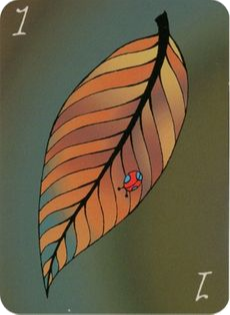
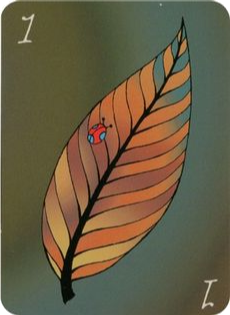
update240425

diff --git a/style.css b/style.css
@@ -1,99 +1,106 @@
-/* CSS Document */
-body {
-    background-image: url('table.png'); /* Set table.png as the background */
-    background-size: cover;
-    background-repeat: repeat;
-    background-position: center;
+/* General styles for html and body */
+html, body {
     margin: 0;
     padding: 0;
+    width: 100%;
+    height: 100%;
+    overflow: hidden; /* Prevent scrollbars during rotation */
     display: flex;
     justify-content: center;
     align-items: center;
-    height: 100vh; /* Full viewport height */
+    background-image: url('table.png'); /* Set table.png as the background */
+    background-size: cover;
+    background-repeat: no-repeat; /* Prevent tiling */
+    background-position: center;
 }
 
-.container {
-    display: grid;
-    grid-template-columns: auto auto auto auto;
-    padding: 10px;
+/* Page container styles */
+#page-container {
+    display: flex;
+    flex-direction: column; /* Stack content vertically */
+    justify-content: center;
+    align-items: center;
+    width: 100%; /* Full width */
+    height: 100%; /* Full height */
+    position: relative; /* Allow transform to work properly */
+    transform-origin: center; /* Set the rotation origin to the center */
+    transition: transform 0.5s ease; /* Smooth rotation */
+    will-change: transform; /* Optimize for transform changes */
+    overflow: hidden; /* Prevent content overflow during rotation */
 }
 
-.container > div {
-    border: 1px solid black;
-    padding: 10px;
-    font-size: 30px;
-    text-align: center;
-}
-
+/* Game board layout */
 .game-board {
     display: grid;
     grid-template-rows: auto auto auto; /* Three rows: Player 1, stacks, Player 2 */
-    grid-gap: 20px; /* Space between rows */
+    grid-gap: 10px; /* Reduce spacing between rows */
+    justify-items: center; /* Center items horizontally */
+    align-items: center; /* Center items vertically */
+    width: 90%; /* Slightly smaller width to fit on the page */
+    height: 90%; /* Slightly smaller height to fit on the page */
     text-align: center;
 }
 
+/* Player layout */
 .player {
     display: grid;
     grid-template-columns: repeat(2, 1fr); /* 2x2 grid for cards */
-    grid-gap: 10px; /* Space between cards */
+    grid-gap: 8px; /* Reduce spacing between cards */
     justify-content: center;
+    align-items: center;
 }
-
+.player-1 img {
+    transform: rotate(180deg); /* No rotation for player 1 */
+}
+/* Stacks layout */
 .stacks {
     display: flex;
     justify-content: center;
-    gap: 50px; /* Space between draw and discard stacks */
+    align-items: center;
+    gap: 15px; /* Space between draw and discard stacks */
 }
 
+/* Card and stack images */
 .card-slot img, .stacks img {
-    width: 100px; /* Set card width */
+    width: 80px; /* Adjust card size to fit on the page */
     height: auto; /* Maintain aspect ratio */
     border: 1px solid black;
     border-radius: 5px;
-    box-shadow: 0 4px 6px rgba(0, 0, 0, 0.2);
+    box-shadow: 0 2px 5px rgba(0, 0, 0, 0.2);
 }
 
-/* Add responsive design for smaller screens */
+/* Responsive design for smaller screens */
 @media (max-width: 768px) {
     .game-board {
-        grid-template-rows: auto auto auto; /* Keep the three rows */
-        grid-gap: 10px; /* Reduce spacing between rows */
+        grid-gap: 8px; /* Reduce spacing between rows */
     }
 
     .player {
-        display: grid; /* Ensure the player container uses grid layout */
-        grid-template-columns: repeat(2, 1fr); /* Maintain a 2x2 grid for cards */
-        grid-gap: 10px; /* Adjust spacing between cards */
-        justify-content: center;
+        grid-template-columns: repeat(2, 1fr); /* Maintain 2x2 grid */
+        grid-gap: 6px; /* Reduce spacing between cards */
     }
 
     .stacks {
-        display: flex; /* Ensure stacks remain side by side */
-        flex-direction: row; /* Keep draw and discard stacks side by side */
-        gap: 20px; /* Reduce spacing between stacks */
+        gap: 10px; /* Reduce spacing between stacks */
     }
 
     .card-slot img, .stacks img {
-        width: 80px; /* Reduce card size for smaller screens */
+        width: 70px; /* Smaller card size for smaller screens */
     }
 }
 
 @media (max-width: 480px) {
     .game-board {
-        grid-gap: 5px; /* Further reduce spacing for very small screens */
+        grid-gap: 5px; /* Further reduce spacing between rows */
     }
 
     .player {
-        display: grid; /* Ensure the player container uses grid layout */
-        grid-template-columns: repeat(2, 1fr); /* Maintain a 2x2 grid for cards */
+        grid-template-columns: repeat(2, 1fr); /* Maintain 2x2 grid */
         grid-gap: 5px; /* Further reduce spacing between cards */
-        justify-content: center;
     }
 
     .stacks {
-        display: flex; /* Ensure stacks remain side by side */
-        flex-direction: row; /* Keep draw and discard stacks side by side */
-        gap: 10px; /* Further reduce spacing between stacks */
+        gap: 8px; /* Further reduce spacing between stacks */
     }
 
     .card-slot img, .stacks img {

diff --git a/script.js b/script.js
@@ -138,6 +138,36 @@ async function addFirstCardToDiscardStack() {
     }
 }
 
+// Function to set up player cards
+async function setUpPlayerCards() {
+    try {
+        // Select all player card elements
+        const playerCards = document.querySelectorAll('.player .card-slot img');
+
+        // Loop through each player card
+        for (const card of playerCards) {
+            // Get a card from the card stack
+            const newCard = await takeFromCardStack();
+
+            // If no card is available, stop the loop
+            if (newCard === null) {
+                console.log('No more cards available in the card stack.');
+                break;
+            }
+
+            // Update the data-card attribute with the new card value
+            card.setAttribute('data-card', newCard);
+
+            // Update the card image to show the new card
+            card.src = `karten/${newCard}.png`;
+
+            console.log(`Assigned card ${newCard} to a player card slot.`);
+        }
+    } catch (error) {
+        console.error('Error setting up player cards:', error);
+    }
+}
+
 // Function to clear the discard stack in Firestore
 async function clearDiscardStack() {
     const discardStackRef = doc(db, 'gameData', 'discardStack'); // Reference to the discard stack document
@@ -213,11 +243,46 @@ function setupCardEventListeners() {
     });
 }
 
+// Function to rotate the page for the other player
+function rotatePageForPlayer(playerRole) {
+    const pageContainer = document.getElementById("page-container");
+
+    if (!pageContainer) {
+        console.error("Error: #page-container element not found.");
+        return;
+    }
+
+    // Ensure transition is set (can be done here or in CSS)
+    // If transition is not in CSS #page-container rule, uncomment the next line:
+    // pageContainer.style.transition = 'transform 0.5s ease'; 
+
+    if (playerRole === 'player-2') {
+        // Apply rotation directly via inline style
+        pageContainer.style.transform = 'rotate(180deg)'; 
+        console.log('Applied inline transform: rotate(180deg)');
+        // You can optionally still add the class for other potential styling or state tracking
+        pageContainer.classList.add('rotated'); 
+    } else if (playerRole === 'player-1') {
+        // Remove rotation directly via inline style
+        pageContainer.style.transform = 'rotate(0deg)'; // Or 'none'
+        console.log('Applied inline transform: rotate(0deg)');
+        // You can optionally still remove the class
+        pageContainer.classList.remove('rotated'); 
+    } else {
+        console.warn("Invalid player role provided:", playerRole);
+    }
+}
+
 // Call the setup function on page load
 document.addEventListener('DOMContentLoaded', async () => {
+    const pageContainer = document.getElementById("page-container");
+    if (pageContainer) {
+        // Ensure initial transform is none/0deg if needed
+        pageContainer.style.transform = 'rotate(0deg)'; 
+        pageContainer.classList.remove('rotated'); // Also remove class just in case
+    }
     setupCardEventListeners();
     await updateDiscardStackDisplay(); // Update discard stack display on page load
-    
 });
 
 // Attach functions to the global window object
@@ -228,7 +293,8 @@ window.takeFromCardStack = takeFromCardStack;
 window.addFirstCardToDiscardStack = addFirstCardToDiscardStack;
 window.clearDiscardStack = clearDiscardStack;
 window.updateDiscardStackDisplay = updateDiscardStackDisplay;
-
+window.setUpPlayerCards = setUpPlayerCards;
+window.rotatePageForPlayer = rotatePageForPlayer;
 
 
 

diff --git a/index.html b/index.html
@@ -9,6 +9,11 @@
     <title>Card Game Layout</title>
 </head>
 <body>
+    <div id ="page-container">
+    <div class="test-buttons">
+        <button onclick="rotatePageForPlayer('player-1')">Test as Player One</button>
+        <button onclick="rotatePageForPlayer('player-2')">Test as Player Two</button>
+    </div>
     <button onclick="uploadRandomizedCardStack()">Upload Randomized Card Stack</button>
     <button onclick="addFirstCardToDiscardStack()">Add First Card to Discard Stack</button>
     <button onclick="clearDiscardStack()">Clear Discard Stack</button>
@@ -17,7 +22,7 @@
         <!-- Player 1's cards -->
         <div class="player player-1">
             <div class="card-slot" id="player1-card1">
-                <img src="karten/1.png" alt="Player 1 Card 1" data-card="1">
+                <img src="karten/1.png?v=1" alt="Player 1 Card 1" data-card="1">
             </div>
             <div class="card-slot" id="player1-card2">
                 <img src="karten/2.png" alt="Player 1 Card 2" data-card="2">
@@ -55,6 +60,7 @@
                 <img src="karten/8.png" alt="Player 2 Card 4" data-card="8">
             </div>
         </div>
+    </div>
     </div>
 </body>
 </html>
